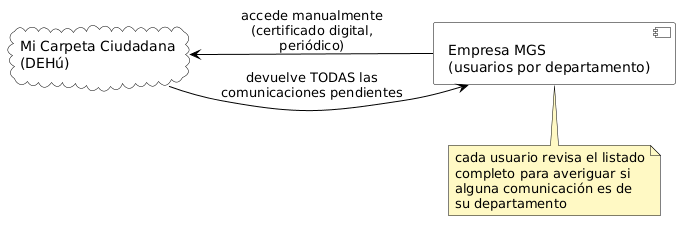
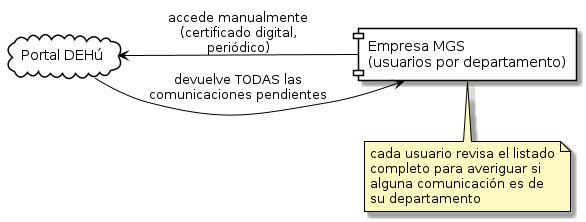
Docs: intro updated

Changed region(s): [[0.0, 0.0541, 1.0, 1.0]]

diff --git a/memoria/02_Estado_de_la_cuestion.md b/memoria/02_Estado_de_la_cuestion.md
@@ -8,11 +8,11 @@ Este capítulo revisa el contexto en el que se inserta el proyecto: cómo se ges
 
 ## Gestión actual de comunicaciones con la administración
 
-La obligación de relacionarse electrónicamente con la Administración Pública, ya introducida en el capítulo anterior, sitúa a empresas como MGS Seguros ante una tarea recurrente y con plazos legales estrictos. El acceso manual a través de Mi Carpeta Ciudadana, descrito en la Introducción, no es una peculiaridad de MGS: es el punto de partida habitual de cualquier organización que empieza a recibir un volumen no trivial de notificaciones electrónicas, y sus limitaciones —carga operativa, riesgo de plazos no atendidos, dependencia de certificados digitales instalados localmente— son las mismas independientemente del sector.
+La obligación de relacionarse electrónicamente con la Administración Pública, ya introducida en el capítulo anterior, sitúa a empresas como MGS Seguros ante una tarea recurrente y con plazos legales estrictos. El acceso manual a la sede web de DEHú, descrito en la Introducción, no es una peculiaridad de MGS: es el punto de partida habitual de cualquier organización que empieza a recibir un volumen no trivial de notificaciones electrónicas, y sus limitaciones —carga operativa, riesgo de plazos no atendidos, dependencia de certificados digitales instalados localmente— son las mismas independientemente del sector.
 
-**中文：** 前一章已经提到过，企业有义务与行政机关进行电子化沟通，这使得像MGS Seguros这样的企业面临一项周期性、且带有严格法律时限的任务。Introducción中描述的通过Mi Carpeta Ciudadana进行的人工访问，并非MGS独有的现象：这是任何一家开始收到一定量电子通知的企业的普遍起点，其局限性——运营负担、时限漏接的风险、依赖本地安装的数字证书——在各个行业中都是相同的。
+**中文：** 前一章已经提到过，企业有义务与行政机关进行电子化沟通，这使得像MGS Seguros这样的企业面临一项周期性、且带有严格法律时限的任务。Introducción中描述的通过DEHú网站进行的人工访问，并非MGS独有的现象：这是任何一家开始收到一定量电子通知的企业的普遍起点，其局限性——运营负担、时限漏接的风险、依赖本地安装的数字证书——在各个行业中都是相同的。
 
-La urgencia de resolver estas limitaciones no es solo organizativa, sino legal: el artículo 43.2 de la Ley 39/2015, de 1 de octubre, del Procedimiento Administrativo Común de las Administraciones Públicas [3] —vigente a fecha de redacción de este trabajo, en su versión consolidada por el BOE, sin haber sido derogado— establece que, cuando la notificación electrónica sea de carácter obligatorio, se entenderá rechazada si transcurren diez días naturales desde su puesta a disposición sin que se acceda a su contenido; ese rechazo, a su vez, se tiene por practicado a todos los efectos legales, esto es, los plazos y consecuencias jurídicas del acto notificado comienzan a correr igualmente. Es decir, la ausencia de un mecanismo de vigilancia sistemático no solo retrasa la gestión interna: hace que los plazos legales empiecen a correr sin que la empresa lo sepa, con las consecuencias jurídicas y económicas que ello puede acarrear.
+La urgencia de resolver estas limitaciones no es solo organizativa, sino legal: el artículo 43.2 de la Ley 39/2015, de 1 de octubre, del Procedimiento Administrativo Común de las Administraciones Públicas [2] —vigente a fecha de redacción de este trabajo, en su versión consolidada por el BOE, sin haber sido derogado— establece que, cuando la notificación electrónica sea de carácter obligatorio, se entenderá rechazada si transcurren diez días naturales desde su puesta a disposición sin que se acceda a su contenido; ese rechazo, a su vez, se tiene por practicado a todos los efectos legales, esto es, los plazos y consecuencias jurídicas del acto notificado comienzan a correr igualmente. Es decir, la ausencia de un mecanismo de vigilancia sistemático no solo retrasa la gestión interna: hace que los plazos legales empiecen a correr sin que la empresa lo sepa, con las consecuencias jurídicas y económicas que ello puede acarrear.
 
 **中文：** 解决这些局限性的紧迫性不仅是组织层面的，更是法律层面的：《Ley 39/2015》（《行政程序共同法》）第43.2条——本论文写作之时（2026年）依然现行有效，是BOE持续维护更新的"合并文本"，没有被废止——规定，当电子通知具有强制性质时，若自通知送达之日起满十个自然日（不是工作日）未访问其内容，则视为拒收；而这个"拒收"本身，在法律上又被视为已按所有法律效力完成送达——也就是说，被通知行为所附带的时限和法律后果，照样开始计算，不会因为企业没看到而暂停。换句话说，缺乏系统性的监控机制，不仅会拖慢内部处理速度：还会导致法律时限在企业毫不知情的情况下开始计算，进而带来相应的法律和经济后果。
 
@@ -20,7 +20,7 @@ La urgencia de resolver estas limitaciones no es solo organizativa, sino legal: 
 
 ## DEHú/LEMA como infraestructura de administración electrónica
 
-DEHú no es el primer sistema de notificación electrónica de la Administración Pública española, ni carece de marco regulatorio propio: el Real Decreto 203/2021, de 30 de marzo, por el que se aprueba el Reglamento de actuación y funcionamiento del sector público por medios electrónicos [4], ya introducido en la Introducción, es precisamente la norma que regula el sistema de notificaciones y comunicaciones electrónicas del que DEHú forma parte. Desde el punto de vista técnico, DEHú tampoco es el primer sistema: su antecesor, el Sistema de Notificaciones Electrónicas — Dirección Electrónica Habilitada (SNE-DEH), operado por la Fábrica Nacional de Moneda y Timbre — Real Casa de la Moneda (FNMT-RCM) al amparo de la Ley 11/2007, fue retirado el 26 de junio de 2023 en favor de la actual DEHú [6], que desde julio de 2020 centraliza progresivamente las notificaciones de los organismos adheridos a través de los distintos Puntos de Concentración de notificaciones (PUC) de cada Administración [7]. A fecha de mayo de 2023, DEHú agrupaba notificaciones de más de 8.800 Administraciones y Organismos Públicos de los tres niveles (estatal, autonómico y local) [8], una cifra que sigue creciendo con la incorporación progresiva de nuevos organismos, en línea con el crecimiento continuo ya apuntado en la Introducción [5].
+DEHú no es el primer sistema de notificación electrónica de la Administración Pública española, ni carece de marco regulatorio propio: el Real Decreto 203/2021, de 30 de marzo, por el que se aprueba el Reglamento de actuación y funcionamiento del sector público por medios electrónicos [3], ya introducido en la Introducción, es precisamente la norma que regula el sistema de notificaciones y comunicaciones electrónicas del que DEHú forma parte. Desde el punto de vista técnico, DEHú tampoco es el primer sistema: su antecesor, el Sistema de Notificaciones Electrónicas — Dirección Electrónica Habilitada (SNE-DEH), operado por la Fábrica Nacional de Moneda y Timbre — Real Casa de la Moneda (FNMT-RCM) al amparo de la Ley 11/2007, fue retirado el 26 de junio de 2023 en favor de la actual DEHú [6], que desde julio de 2020 centraliza progresivamente las notificaciones de los organismos adheridos a través de los distintos Puntos de Concentración de notificaciones (PUC) de cada Administración [7]. A fecha de mayo de 2023, DEHú agrupaba notificaciones de más de 8.800 Administraciones y Organismos Públicos de los tres niveles (estatal, autonómico y local) [8], una cifra que sigue creciendo con la incorporación progresiva de nuevos organismos, en línea con el crecimiento continuo ya apuntado en la Introducción [4].
 
 **中文：** DEHú既不是西班牙**行政机关（Administración Pública）**第一个电子通知系统，而且也不缺乏自己的法规依据：RD 203/2021（《电子化手段下公共部门行为与运作条例》）——Introducción里已经介绍过——正是规范DEHú所属的那套电子通知和通信系统的法规。从技术角度看，DEHú也不是第一个系统：它的前身——由Fábrica Nacional de Moneda y Timbre — Real Casa de la Moneda（FNMT-RCM，国家造币印花厂——皇家造币厂）运营、依据2007年法律建立的"电子通知系统——启用电子地址"（SNE-DEH），已于2023年6月26日正式退役，全面移交给现在的DEHú。（补充说明：FNMT-RCM是西班牙国有机构，除了铸造货币、印制邮票等传统职能外，还承担着"可信第三方"的角色，负责签发数字证书，历史上也运营过政府的电子通知系统。）DEHú自2020年7月起，通过各行政机关的"通知集中点"（PUC），逐步集中接入各机构的通知。截至2023年5月，DEHú已汇集了国家、自治区、地方三个层级共超过8800个行政机关和公共组织的通知——这个数字仍在随着新机构的陆续接入而持续增长，和Introducción中已经提到的"持续增长"这一点相互呼应（不重复举例，只是同一个趋势的具体数据佐证）。
 
@@ -116,6 +116,6 @@ La literatura reciente sobre autocorrección de agentes ante fallos de herramien
 
 ---
 
-**Referencias citadas en este capítulo:** [3], [5]–[24] — ver [`Referencias.md`](Referencias.md) para el listado completo y actualizado (numeración ya sincronizada con el orden de aparición en la memoria).
+**Referencias citadas en este capítulo:** [2]–[4], [6]–[24] — ver [`Referencias.md`](Referencias.md) para el listado completo y actualizado (numeración ya sincronizada con el orden de aparición en la memoria).
 
 [^ap]: AP: Administración Pública.

diff --git a/memoria/01_Introduccion.md b/memoria/01_Introduccion.md
@@ -2,27 +2,27 @@
 
 Este Trabajo de Fin de Máster se centra en el diseño e implementación de un sistema que automatiza la recepción y el tratamiento de las comunicaciones electrónicas que la Administración Pública española dirige a la empresa aseguradora MGS, Seguros y Reaseguros, S.A. Estas comunicaciones se depositan en la Dirección Electrónica Habilitada única (DEHú), que es el sistema oficial a través del cual los organismos públicos notifican electrónicamente a empresas y ciudadanos.
 
-Hoy, el personal de la empresa accede a ellas de forma manual, una a una, mediante el certificado digital corporativo, a través de Mi Carpeta Ciudadana: el portal ciudadano desde el que, entre otros trámites, se gestionan las notificaciones de DEHú [1]. El proyecto sustituye este acceso por una conexión automatizada a DEHú mediante LEMA, la modalidad pensada para grandes empresas ("Grandes Destinatarios") que necesitan automatizar la consulta de sus comunicaciones [2].
+Hoy, el personal de la empresa accede a ellas de forma manual, una a una, mediante el certificado digital corporativo, entrando directamente en DEHú. El proyecto sustituye este acceso manual por una conexión automatizada a DEHú mediante LEMA, la modalidad pensada para grandes empresas ("Grandes Destinatarios") que necesitan automatizar la consulta de sus comunicaciones [1].
 
 El sistema implementado aporta valor en tres pasos manuales: la detección y descarga de cada comunicación nueva desde DEHú, la interpretación de su contenido mediante OCR y modelos LLM, y su derivación automática al departamento correspondiente a través del sistema de Ticketing interno de la empresa.
 
 ## Contexto
 
-La relación entre las empresas y la Administración Pública española se canaliza, cada vez de forma más generalizada, a través de medios electrónicos. El artículo 14.2 de la Ley 39/2015, de 1 de octubre, del Procedimiento Administrativo Común de las Administraciones Públicas [3], obliga a las personas jurídicas a relacionarse electrónicamente con las Administraciones Públicas.
+La relación entre las empresas y la Administración Pública española se canaliza, cada vez de forma más generalizada, a través de medios electrónicos. El artículo 14.2 de la Ley 39/2015, de 1 de octubre, del Procedimiento Administrativo Común de las Administraciones Públicas [2], obliga a las personas jurídicas a relacionarse electrónicamente con las Administraciones Públicas.
 
-El Real Decreto 203/2021, de 30 de marzo, por el que se aprueba el Reglamento de actuación y funcionamiento del sector público por medios electrónicos [4], regula el sistema de notificaciones y comunicaciones electrónicas del que forma parte la Dirección Electrónica Habilitada única (DEHú): una plataforma que centraliza en un único buzón, por destinatario, las notificaciones de los organismos públicos que se han ido adhiriendo progresivamente a ella (miles de administraciones y organismos, en crecimiento continuo) [5].
+El Real Decreto 203/2021, de 30 de marzo, por el que se aprueba el Reglamento de actuación y funcionamiento del sector público por medios electrónicos [3], regula el sistema de notificaciones y comunicaciones electrónicas del que forma parte la Dirección Electrónica Habilitada única (DEHú): una plataforma que centraliza en un único buzón, por destinatario, las notificaciones de los organismos públicos que se han ido adhiriendo progresivamente a ella (miles de administraciones y organismos, en crecimiento continuo) [4].
 
 No es, sin embargo, el único canal de notificación electrónica existente en la Administración española: determinados organismos mantienen sistemas de notificación propios, independientes de DEHú.
 
 Recibir a tiempo estas comunicaciones no es una cuestión meramente operativa: muchas de ellas —requerimientos, notificaciones administrativas o incluso demandas judiciales— llevan asociados plazos legales cuyo incumplimiento puede tener consecuencias jurídicas y económicas directas para la organización.
 
-En MGS Seguros, el acceso a estas comunicaciones se realiza actualmente de forma manual: distintos usuarios de diferentes áreas acceden periódicamente a la interfaz web de Mi Carpeta Ciudadana —el portal ciudadano desde el que una persona o empresa revisa manualmente, una a una, sus notificaciones de DEHú, a diferencia del acceso automatizado que ofrece LEMA— empleando certificados digitales instalados localmente, y revisan la totalidad de las notificaciones pendientes: Mi Carpeta Ciudadana devuelve el listado completo sin distinguir por departamento, de modo que es el propio usuario quien actúa como filtro, examinando una a una todas las comunicaciones para determinar cuáles corresponden a su área, descargando la documentación asociada y trasladando manualmente esa información a los circuitos de trabajo internos correspondientes.
+En MGS Seguros, el acceso a estas comunicaciones se realiza actualmente de forma manual: distintos usuarios de diferentes áreas acceden periódicamente a DEHú —a diferencia del acceso automatizado que ofrece LEMA— empleando certificados digitales instalados localmente, habitualmente a través del enlace directo incluido en el correo de aviso de cada notificación; las notificaciones de DEHú también pueden consultarse a través de Mi Carpeta Ciudadana, el portal ciudadano que ofrece este acceso entre otros trámites [5]. Los usuarios revisan la totalidad de las notificaciones pendientes: el sistema devuelve el listado completo sin distinguir por departamento, de modo que es el propio usuario quien actúa como filtro, examinando una a una todas las comunicaciones para determinar cuáles corresponden a su área, descargando la documentación asociada y trasladando manualmente esa información a los circuitos de trabajo internos correspondientes.
 
 Este modelo presenta varias limitaciones relevantes. Por un lado, supone una carga operativa recurrente sobre tareas de bajo valor añadido, con el consiguiente riesgo de retrasos o comunicaciones no atendidas a tiempo. Por otro lado, el uso de certificados digitales instalados en múltiples puestos de trabajo, asociados a personas apoderadas de la organización, incrementa la superficie de exposición y dificulta la trazabilidad de los accesos. Además, la identificación del área destinataria y la naturaleza de cada comunicación depende del criterio manual de la persona que la revisa, sin un registro sistemático que permita auditar después cómo se gestionó cada caso (Figura 1).
 
 ![Diagrama de contexto — situación actual](../Diagramas/img/diagrama_contexto_actual.png)
 
-**Figura 1.** Situación actual: acceso manual a Mi Carpeta Ciudadana.
+**Figura 1.** Situación actual: acceso manual a DEHú.
 
 ## Motivación
 
@@ -53,10 +53,10 @@ Estos objetivos se persiguen dentro del alcance de un Producto Mínimo Viable (M
 
 **Referencias citadas en este capítulo** (ver [`Referencias.md`](./Referencias.md) para el detalle completo):
 
-1. Mi Carpeta Ciudadana: Mis Notificaciones (carpetaciudadana.gob.es)
-2. Guía de integración para Grandes Destinatarios (AEAD, 2026, v3.0)
-3. Ley 39/2015, art. 14.2 (BOE-A-2015-10565)
-4. Real Decreto 203/2021 (BOE-A-2021-5032)
-5. DEHú continúa su crecimiento... (IT User, 2023)
+1. Guía de integración para Grandes Destinatarios (AEAD, 2026, v3.0)
+2. Ley 39/2015, art. 14.2 (BOE-A-2015-10565)
+3. Real Decreto 203/2021 (BOE-A-2021-5032)
+4. DEHú continúa su crecimiento... (IT User, 2023)
+5. Mi Carpeta Ciudadana: Mis Notificaciones (carpetaciudadana.gob.es)
 
 [^1]: DEHú es el sistema; LEMA es la forma automática de acceder a él.

diff --git a/memoria/Referencias.md b/memoria/Referencias.md
@@ -2,17 +2,17 @@
 
 Numeración alineada con el orden de aparición en la memoria: primero las citadas y luego las que no.
 
-1. **Más Información — Mi Carpeta Ciudadana: Mis Notificaciones** (portal oficial carpetaciudadana.gob.es; consultado el 14 de septiembre de 2026) — confirma que Mi Carpeta Ciudadana es el portal ciudadano integral (datos personales, expedientes, notificaciones, etc.) y que su sección "Mis Notificaciones" da acceso directo a DEHú; es decir, DEHú es un servicio al que se accede desde Mi Carpeta Ciudadana, y no al revés:
-   https://masinformacioncarpeta.carpetaciudadana.gob.es/infocc/en/masInformacion/mis-notificaciones
-2. **Guía de integración para Grandes Destinatarios** (documento base del análisis de servicios web LEMA):
+1. **Guía de integración para Grandes Destinatarios** (documento base del análisis de servicios web LEMA):
    https://administracionelectronica.gob.es/ctt/resources/Soluciones/2311/Descargas/DEHu-Guia%20Integracion%20para%20Gran%20Destinatario.pdf?idIniciativa=2311&idElemento=26313
    > Nota de versión: el análisis de este proyecto se basó en la **v2.1** (autor SGAD, 21/07/2025), consultada el 24 de agosto de 2026. El portal sirve actualmente la **v3.0** (autor AEAD, 11/06/2026), consultada el 9 de septiembre de 2026, que añade contenido operativo (tipologías de Gran Destinatario, ejemplos de alta, obtención de certificado en formato PEM) pero mantiene sin cambios el contrato de los servicios web (`localiza`, `peticionAcceso`, `consultaAnexos`, `consultaAcusePdf`, `localizaRealizadas`, `consultaRealizadas`) en los que se basa el diseño.
-3. **Ley 39/2015, de 1 de octubre, del Procedimiento Administrativo Común de las Administraciones Públicas** (BOE-A-2015-10565) — texto consolidado, vigente a fecha de redacción de este trabajo (consultado el 14 de septiembre de 2026). Citada por dos artículos distintos: el **artículo 14.2**, en la Introducción, sobre la obligación de las personas jurídicas, entidades sin personalidad jurídica y determinados profesionales de relacionarse electrónicamente con las Administraciones Públicas; y el **artículo 43.2**, en el Estado de la cuestión, sobre el rechazo tácito de la notificación electrónica transcurridos diez días naturales sin acceder a su contenido:
+2. **Ley 39/2015, de 1 de octubre, del Procedimiento Administrativo Común de las Administraciones Públicas** (BOE-A-2015-10565) — texto consolidado, vigente a fecha de redacción de este trabajo (consultado el 14 de septiembre de 2026). Citada por dos artículos distintos: el **artículo 14.2**, en la Introducción, sobre la obligación de las personas jurídicas, entidades sin personalidad jurídica y determinados profesionales de relacionarse electrónicamente con las Administraciones Públicas; y el **artículo 43.2**, en el Estado de la cuestión, sobre el rechazo tácito de la notificación electrónica transcurridos diez días naturales sin acceder a su contenido:
    https://www.boe.es/eli/es/l/2015/10/01/39/con
-4. **Real Decreto 203/2021, de 30 de marzo, por el que se aprueba el Reglamento de actuación y funcionamiento del sector público por medios electrónicos** (BOE-A-2021-5032) — regula el sistema de notificaciones y comunicaciones electrónicas y el Punto de Acceso General/DEHú como acceso unificado; texto consolidado (consultado el 14 de septiembre de 2026):
+3. **Real Decreto 203/2021, de 30 de marzo, por el que se aprueba el Reglamento de actuación y funcionamiento del sector público por medios electrónicos** (BOE-A-2021-5032) — regula el sistema de notificaciones y comunicaciones electrónicas y el Punto de Acceso General/DEHú como acceso unificado; texto consolidado (consultado el 14 de septiembre de 2026):
    https://www.boe.es/eli/es/rd/2021/03/30/203/con
-5. **DEHú continúa su crecimiento con la inclusión de las notificaciones de la Junta de Castilla y León** (IT User, 2023; consultado el 14 de septiembre de 2026) — evidencia de que la adhesión de Administraciones Públicas a DEHú es progresiva (13 comunidades autónomas y más de 8.500 administraciones/organismos adheridos a la fecha del artículo, con incorporación continua de las restantes), no universal desde su creación:
+4. **DEHú continúa su crecimiento con la inclusión de las notificaciones de la Junta de Castilla y León** (IT User, 2023; consultado el 14 de septiembre de 2026) — evidencia de que la adhesión de Administraciones Públicas a DEHú es progresiva (13 comunidades autónomas y más de 8.500 administraciones/organismos adheridos a la fecha del artículo, con incorporación continua de las restantes), no universal desde su creación:
    https://www.ituser.es/sociedad-digital/2023/03/dehu-continua-su-crecimiento-con-la-inclusion-de-las-notificaciones-de-la-junta-de-castilla-y-leon
+5. **Más Información — Mi Carpeta Ciudadana: Mis Notificaciones** (portal oficial carpetaciudadana.gob.es; consultado el 14 de septiembre de 2026) — confirma que Mi Carpeta Ciudadana es un portal ciudadano integral (datos personales, expedientes, notificaciones, etc.) y que su sección "Mis Notificaciones" puede abrir el buzón de DEHú. Es **otra puerta**, no la sede de DEHú ni la que usa MGS para este proceso (esa es dehu.redsara.es; ver [26]):
+   https://masinformacioncarpeta.carpetaciudadana.gob.es/infocc/en/masInformacion/mis-notificaciones
 6. **PAe — CTT — Servicio Compartido de Gestión de Notificaciones (Notifica)** — confirma que el Sistema de Notificaciones Electrónicas – Dirección Electrónica Habilitada (SNE-DEH), operado por la Fábrica Nacional de Moneda y Timbre — Real Casa de la Moneda (FNMT-RCM) al amparo de la Ley 11/2007, fue retirado el 26 de junio de 2023 en favor de la actual DEHú (página dinámica, consultada el 16 de septiembre de 2026):
    https://administracionelectronica.gob.es/ctt/notifica
 7. **Club de Innovación: Dirección Electrónica Habilitada única (DEHú)** — puesta en marcha en julio de 2020, integrando inicialmente las notificaciones del PUC Notifica, e incorporación progresiva de PUC de otras Administraciones (Canarias, Generalitat Valenciana, Xunta de Galicia, AEAT, etc.):
@@ -53,11 +53,11 @@ Numeración alineada con el orden de aparición en la memoria: primero las citad
 
 ---
 
-*Referencias todavía sin citar en la memoria:*
+*Referencias todavía sin citar en la memoria (salvo [26], citada en la Introducción):*
 
 25. **Notificaciones Telemáticas — Sede Electrónica de la Seguridad Social** — confirma que, además de DEHú y de Mi Carpeta Ciudadana, la Seguridad Social ofrece un canal adicional propio (basado en servicios web, para grandes volúmenes) independiente de DEHú, como ejemplo de organismo con canal de notificación propio fuera de DEHú:
     https://sede.seg-social.gob.es/wps/portal/sede/sede/Inicio/NotificacionesTelematicas/
 26. **Mi Carpeta Ciudadana y DEHú: simplifica tus trámites en España** (AMS Abogados) — describe Mi Carpeta Ciudadana y DEHú como dos portales independientes y complementarios (con sitios web propios, carpetaciudadana.gob.es y dehu.redsara.es) que comparten sistemas de autenticación:
     https://amsabogados.org/carpeta-ciudadana-dehu-espana/
-27. **Portal oficial de descargas** (PAe — Centro de Transferencia de Tecnología, sección "Grandes destinatarios"), origen de la guía de [2]:
+27. **Portal oficial de descargas** (PAe — Centro de Transferencia de Tecnología, sección "Grandes destinatarios"), origen de la guía de [1]:
     https://administracionelectronica.gob.es/ctt/lema/descargas

diff --git a/Diagramas/Diagrama_Contexto.md b/Diagramas/Diagrama_Contexto.md
@@ -2,9 +2,9 @@
 
 *Vista de contexto del sistema: qué entidades rodean la plataforma y qué intercambian con ella, sin entrar en componentes internos (para el detalle interno, ver [Diagrama de componentes](Diagrama_Componentes.md)). Se muestran dos situaciones: la actual (acceso manual) y la futura (con el sistema automatizado + IA).*
 
-`Propuesta de proyecto.md` describe la situación actual de forma genérica ("buzones y sedes electrónicas de organismos públicos"); **Mi Carpeta Ciudadana** es la fuente concreta a la que hoy se accede: es el área personal dentro de DEHú (Dirección Electrónica Habilitada única, el punto único del Estado para notificaciones de cualquier organismo), pensada para acceso manual puntual de un particular — la alternativa para grandes destinatarios como MGS son los servicios web LEMA, que sustituirán este acceso manual por uno automatizado (ver `Estado_del_proyecto.md`, sección 1).
+`Propuesta de proyecto.md` describe la situación actual de forma genérica ("buzones y sedes electrónicas de organismos públicos"). La puerta concreta es la **sede web de DEHú** (Dirección Electrónica Habilitada única). **Mi Carpeta Ciudadana** es otro portal (ciudadano); no es la que usan las áreas para este proceso. LEMA es la misma DEHú por servicios web, para Grandes Destinatarios (ver `Estado_del_proyecto.md`, sección 1).
 
-**Objetivo concreto**: sustituir el acceso manual y periódico de cada departamento a Mi Carpeta Ciudadana por un acceso automatizado (LEMA) que clasifica cada comunicación con IA y la deriva directamente al departamento correspondiente vía ticket, sin que nadie tenga que revisar el listado completo.
+**Objetivo concreto**: sustituir el acceso manual y periódico de cada departamento a la sede web de DEHú por LEMA, clasificar cada comunicación (metadatos primero; OCR/LLM si hace falta) y derivarla al departamento vía ticket, sin que nadie recorra el listado completo.
 
 ---
 
@@ -42,7 +42,7 @@ skinparam ranksep 60
 
 left to right direction
 
-cloud "Mi Carpeta Ciudadana\n(DEHú)" as Carpeta
+cloud "Portal DEHú" as Carpeta
 component "Empresa MGS\n(usuarios por departamento)" as MGS
 
 Carpeta <-- MGS : accede manualmente\n(certificado digital,\nperiódico)
@@ -64,12 +64,12 @@ end note
 
 ![Diagrama de contexto - situación futura](img/diagrama_contexto.png)
 
-El sistema se interpone entre Mi Carpeta Ciudadana y la Empresa MGS: consulta las comunicaciones automáticamente (vía LEMA), las clasifica con IA y deriva a cada departamento solo lo que le corresponde, creando un ticket en el Sistema de Ticketing (canal principal, ver `Estado_del_proyecto.md` sección 3). El Operador gestiona la cola de revisión humana para los casos de baja confianza.
+El sistema se interpone entre DEHú y la Empresa MGS: consulta las comunicaciones automáticamente (vía LEMA), las clasifica y deriva a cada departamento solo lo que le corresponde, creando un ticket en el Sistema de Ticketing (canal principal, ver `Estado_del_proyecto.md` sección 3). El Operador gestiona la cola de revisión humana para los casos de baja confianza.
 
 ### Elementos
 
-- **Mi Carpeta Ciudadana**: fuente de las comunicaciones (ver explicación arriba); en esta situación el acceso ya es automatizado vía LEMA, no manual.
-- **Sistema (IA)**: la plataforma de automatización objeto del TFM — ingesta, OCR/interpretación, clasificación y generación de tickets/notificaciones.
+- **DEHú**: fuente de las comunicaciones (sede web hoy; LEMA en la situación futura). Mi Carpeta Ciudadana no aparece: es otro portal.
+- **Sistema (IA)**: la plataforma de automatización objeto del TFM — ingesta, clasificación (metadatos; OCR si hace falta) y generación de tickets/notificaciones.
 - **Sistema de Ticketing**: sistema interno ya existente en MGS (fuera del alcance del TFM) donde el Sistema (IA) crea el ticket derivado; es el canal por el que la Empresa MGS consulta y gestiona sus comunicaciones asignadas (ver `Diagrama_Componentes.md`).
 - **Empresa MGS**: los departamentos internos que reciben ya filtrada y clasificada solo la comunicación que les corresponde (a diferencia de la situación actual, ya no revisan el listado completo).
 - **Operador**: rol interno que gestiona la cola de revisión humana y la reclasificación manual (ver `Diagrama_Componentes.md`, bloque "Gestión y Revisión").
@@ -98,7 +98,7 @@ skinparam ranksep 60
 
 left to right direction
 
-cloud "Mi Carpeta Ciudadana\n(DEHú)" as Carpeta
+cloud "Portal DEHú" as Carpeta
 actor "Operador" as Operador
 component "Empresa MGS\n(departamentos)" as MGS
 component "Sistema de\nTicketing" as Ticketing
